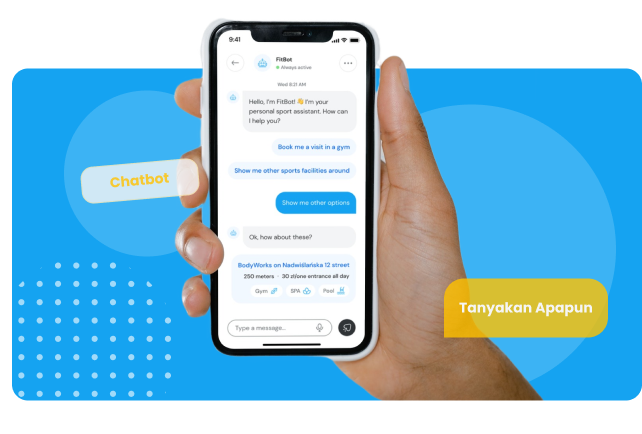
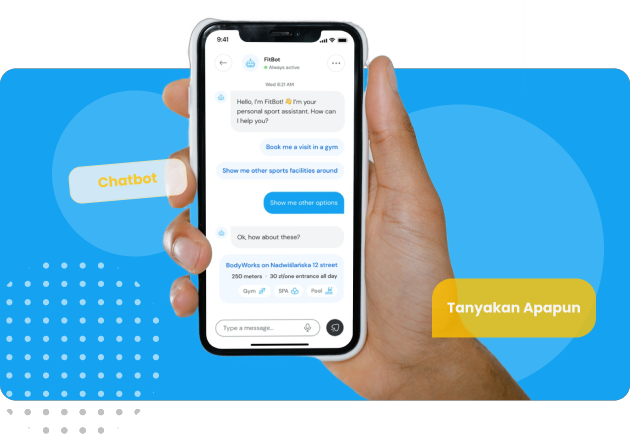
feat: fixing responsive fiture tambahan

diff --git a/index.html b/index.html
@@ -471,8 +471,8 @@
       </div>
 
       <!-- SHOW FEATURE CUSTOM WEBSITE -->
-      <div class="row quote" id="custom-website" style="padding: 100px 0; background: #fff; max-width: 1280px; margin: auto">
-         <div class="col-sm-6 col-xs-12 col-lg-5" style="margin-top: 100px" align="left">
+      <div class="row quote" id="custom-website" style="padding: 40px 0; background: #fff; max-width: 1280px; margin: auto">
+         <div class="col-sm-6 col-xs-12 col-lg-5" style="margin-top: 80px" align="left">
             <div class="box_banking" style="margin-top: 20px">
                <img src="assets/images/show-feature-custom-web.png" class="visible-xs" width="100%" style="margin-bottom: 20px; margin-left: -10px" alt="sistemtoko.com preview" />
                <div class="header-gray inet-banking">Custom Website</div>
@@ -668,7 +668,7 @@
       </div>
 
       <!-- SHOW FEATURE CUSTOM LOGO -->
-      <div class="row quote" id="custom-logo" style="padding: 100px 0 60px 0; background: #fff; max-width: 1280px; margin: auto">
+      <div class="row quote" id="custom-logo" style="padding: 60px 0 60px 0; background: #fff; max-width: 1280px; margin: auto">
          <div class="col-sm-6 col-xs-12 col-lg-6" style="margin-top: 70px" align="left">
             <div class="box_banking" style="margin-top: 60px; padding-left: 32px">
                <img src="assets/images/show-feature-custom-logo.png" class="visible-xs" width="100%" style="margin-bottom: 20px; margin-left: -10px" alt="sistemtoko.com preview" />
@@ -851,9 +851,9 @@
       <section class="row quote" id="chatbot" style="padding: 0px 0 50px 0; background: #fff; max-width: 1280px; margin: auto">
          <div class="col-sm-6 hidden-xs col-lg-6" align="left" style="background: url(assets/images/advantage-chatbot.png) right no-repeat; height: 500px"></div>
 
-         <div class="col-xs-12 col-sm-6 col-lg-6" align="left" style="padding-left: 90px">
+         <div class="col-xs-12 col-sm-6 col-lg-6 fitur-other-padding-left" align="left">
             <div class="box_banking">
-               <img src="assets/images/advantage-chatbot.png" class="visible-xs" width="100%" style="margin-bottom: 20px; margin-left: -10px" alt="sistemtoko preview" />
+               <img src="assets/images/advantage-chatbot.png" class="visible-xs" width="100%" style="margin-bottom: 20px" alt="sistemtoko preview" />
 
                <div class="header-gray inet-banking">ChatBot</div>
                <div class="header-gray" style="font-size: 20px; margin-bottom: 20px">Dapat secara otomatis membalas chatingan customer</div>
@@ -912,9 +912,9 @@
 
       <!-- KASIR OFFLINE -->
       <section class="row quote" id="chatbot" style="padding: 0px 0 50px 0; background: #fff; max-width: 1280px; margin: auto">
-         <div class="col-xs-12 col-sm-6 col-lg-6" align="left" style="padding-right: 90px">
+         <div class="col-xs-12 col-sm-6 col-lg-6 fitur-other-padding-right" align="left">
             <div class="box_banking">
-               <img src="assets/images/advantage-kasir-offline.png" class="visible-xs" width="100%" style="margin-bottom: 20px; margin-left: -10px" alt="sistemtoko preview" />
+               <img src="assets/images/advantage-kasir-offline.png" class="visible-xs" width="100%" style="margin-bottom: 20px" alt="sistemtoko preview" />
                <div class="header-gray inet-banking">Kasir Offline</div>
                <div class="header-gray" style="font-size: 20px; margin-bottom: 20px">Dengan aplikasi ini anda dapat mencatat penjualan secara Offline</div>
 
@@ -942,9 +942,9 @@
       <section class="row quote" id="chatbot" style="padding: 0px 0 50px 0; background: #fff; max-width: 1280px; margin: auto">
          <div class="col-sm-6 hidden-xs col-lg-6" align="left" style="background: url(assets/images/advantage-sistem-informasi.png) right no-repeat; height: 500px"></div>
 
-         <div class="col-xs-12 col-sm-6 col-lg-6" align="left" style="padding-left: 90px; padding-top: 24px">
+         <div class="col-xs-12 col-sm-6 col-lg-6 fitur-other-padding-left" align="left" style="padding-top: 24px">
             <div class="box_banking">
-               <img src="assets/images/advantage-sistem-informasi.png" class="visible-xs" width="100%" style="margin-bottom: 20px; margin-left: -10px" alt="sistemtoko preview" />
+               <img src="assets/images/advantage-sistem-informasi.png" class="visible-xs" width="100%" alt="sistemtoko preview" style="margin-bottom: 20px" />
                <div class="header-gray inet-banking">Sistem Informasi Berbasis Website</div>
                <div class="header-gray" style="font-size: 20px; margin-top: 20px">
                   Dengan sistem ini anda dapat melakukan management order dengan baik. Dilengkapi dengan berbagai fitur yang mendukung bisnis anda seperti laporan , data customer , stock gudang , history keluar masuk barang , print label pengiriman , management status order dll.
@@ -955,9 +955,9 @@
 
       <!-- PELATIHAN GRATIS -->
       <section class="row quote" id="chatbot" style="padding: 0px 0 50px 0; background: #fff; max-width: 1280px; margin: auto">
-         <div class="col-xs-12 col-sm-6 col-lg-6" align="left" style="padding-right: 90px">
+         <div class="col-xs-12 col-sm-6 col-lg-6 fitur-other-padding-right" align="left">
             <div class="box_banking">
-               <img src="assets/images/advantage-pelatihan.png" class="visible-xs" width="100%" style="margin-bottom: 20px; margin-left: -10px" alt="sistemtoko preview" />
+               <img src="assets/images/advantage-pelatihan.png" class="visible-xs" style="margin-bottom: 20px" width="100%" alt="sistemtoko preview" />
                <div class="header-gray inet-banking">Pelatihan Gratis</div>
                <div class="header-gray" style="font-size: 20px; margin-bottom: 20px">Dapatkan Bimbingan dan Pelatihan Website dan Pemasaran</div>
 
@@ -985,9 +985,9 @@
       <section class="row quote" id="chatbot" style="padding: 0px 0 50px 0; background: #fff; max-width: 1280px; margin: auto">
          <div class="col-sm-6 hidden-xs col-lg-6" align="left" style="background: url(assets/images/advantage-bantuan-tim-pasar.png) right no-repeat; height: 500px"></div>
 
-         <div class="col-xs-12 col-sm-6 col-lg-6" align="left" style="padding-left: 90px; padding-top: 100px">
+         <div class="col-xs-12 col-sm-6 col-lg-6 fitur-other-padding-left" align="left" style="padding-top: 100px">
             <div class="box_banking">
-               <img src="assets/images/advantage-bantuan-tim-pasar.png" class="visible-xs" width="100%" style="margin-bottom: 20px; margin-left: -10px" alt="sistemtoko preview" />
+               <img src="assets/images/advantage-bantuan-tim-pasar.png" class="visible-xs" width="100%" style="margin-bottom: 20px" alt="sistemtoko preview" />
                <div class="header-gray inet-banking">Bantuan Tim Pemasaran</div>
                <div class="header-gray" style="font-size: 20px; margin-top: 20px">Tim digital marketing dan sosial media kami dapat membantu untuk meningkatkan penjualan produk anda. Serta dapatkan konsultasi gratis untuk merencanakan pemasaran produk anda.</div>
             </div>

diff --git a/css/style.min.css b/css/style.min.css
@@ -576,6 +576,12 @@ body {
    }
 }
 
+@media (max-width: 460px) {
+   .fiture-box-up {
+      height: 400px;
+   }
+}
+
 .navbar-default .navbar-nav > .open > a,
 .navbar-default .navbar-nav > .open > a:focus,
 .navbar-default .navbar-nav > .open > a:hover {
@@ -640,6 +646,25 @@ a.navbar-brand:hover {
    text-align: center;
    font-size: 14px;
    color: #696969;
+}
+
+.fitur-other-padding-left {
+   padding-left: 90px;
+}
+
+.fitur-other-padding-right {
+   padding-right: 90px;
+}
+
+@media screen and (max-width: 768px) {
+   .fitur-other-padding-left {
+      padding-left: 20px;
+      padding-right: 20px;
+   }
+   .fitur-other-padding-right {
+      padding-left: 20px;
+      padding-right: 20px;
+   }
 }
 
 .footer-menu li {
